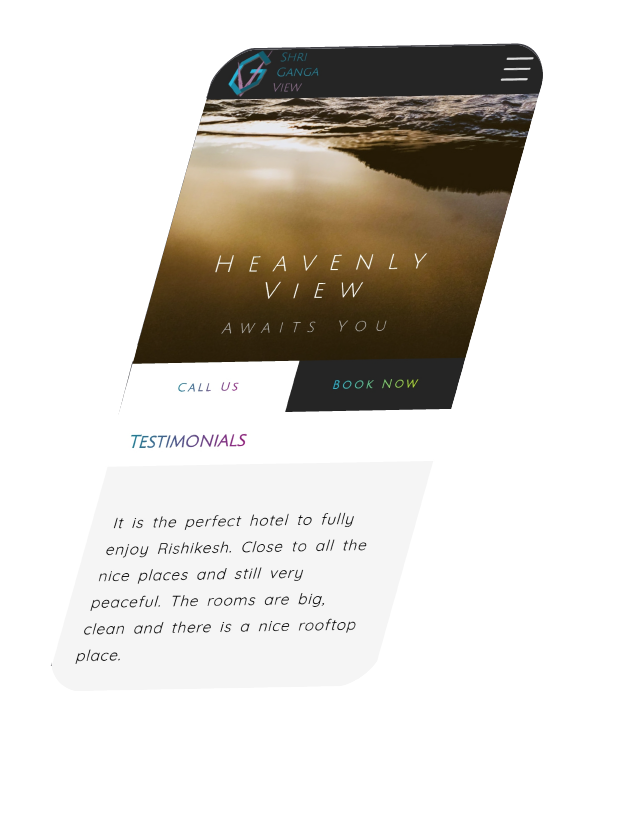
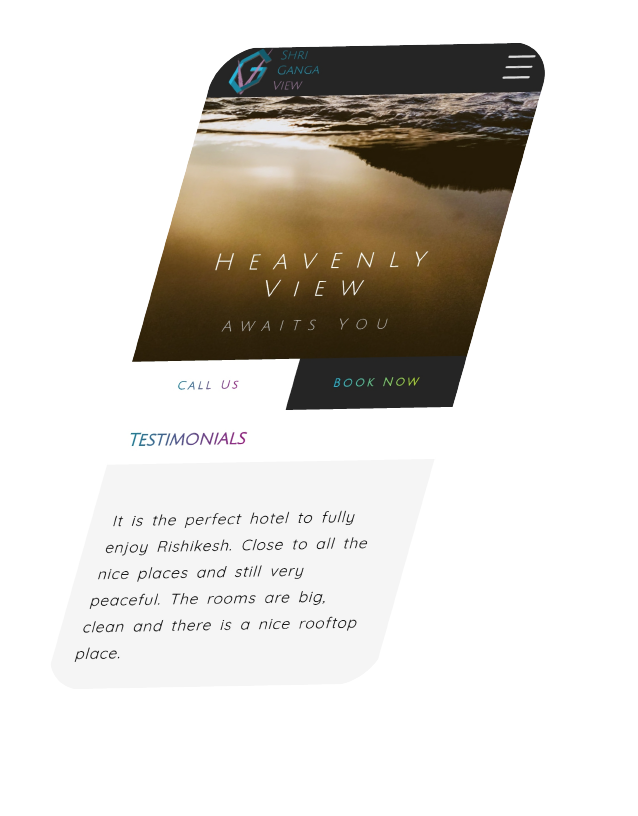
fixed hero

diff --git a/pages/index.vue b/pages/index.vue
@@ -13,17 +13,17 @@
   @extend %display-flex;
   font-size: 3.5rem;
   width: 100%;
-  height: 100%;
+  height: fit-content;
   justify-items: flex-start;
 
   .designer,
   .developer {
-    height: 100vh;
+    height: calc(100vh - #{$navbar-height});
     width: 100%;
     background-attachment: fixed;
     background-repeat: no-repeat;
-    background-size: 95%, 75%;
-    background-position: center center;
+    background-size: 60vh;
+    background-position: center;
   }
 
   .designer {
